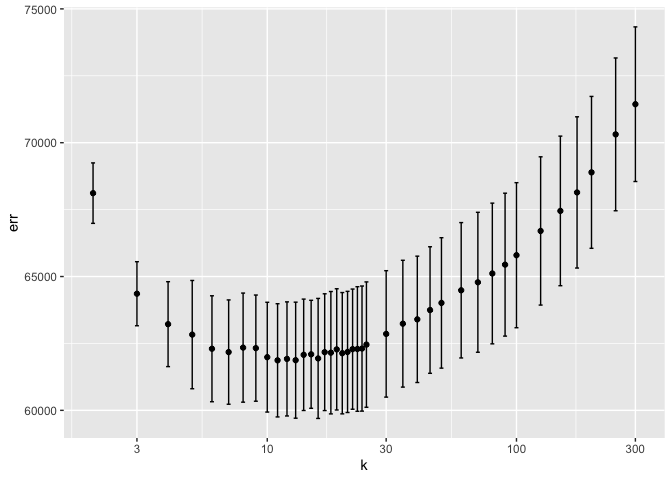
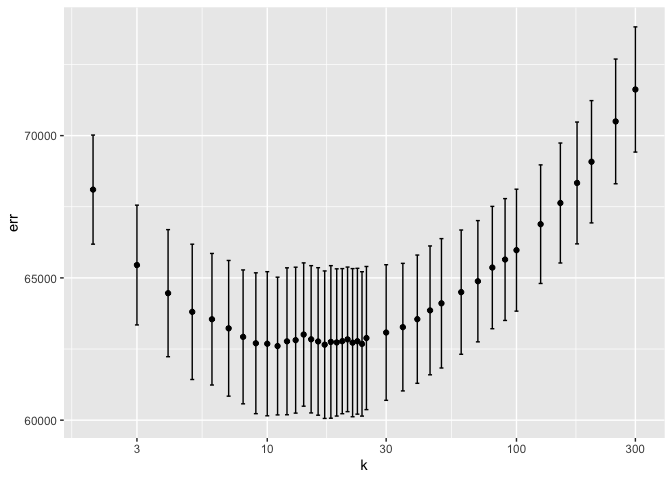
I think its done

diff --git a/exercise 2/exercise_2.md b/exercise 2/exercise_2.md
@@ -19,8 +19,8 @@ them are positively correlated with the house prices.
 
 |              | k   |     rMSE |
 |:-------------|:----|---------:|
-| KNN Model    | 11  | 61869.04 |
-| Linear Model | NA  | 58945.43 |
+| KNN Model    | 11  | 62605.03 |
+| Linear Model | NA  | 59241.46 |
 
 Choose k = 11 as it has the smallest mean RMSE over 5 folds. <br>
 Standard error is smaller for the linear model.
@@ -34,32 +34,32 @@ Linear regression output is below:
     ## 
     ## Residuals:
     ##     Min      1Q  Median      3Q     Max 
-    ## -224916  -34129   -4502   27629  384325 
+    ## -216700  -34839   -5991   28404  452490 
     ## 
     ## Coefficients:
     ##                          Estimate Std. Error t value Pr(>|t|)    
-    ## (Intercept)             2.038e+05  2.361e+04   8.632  < 2e-16 ***
-    ## lotSize                 7.543e+03  2.259e+03   3.339 0.000863 ***
-    ## age                    -6.998e+01  6.068e+01  -1.153 0.249042    
-    ## landValue               8.193e-01  4.993e-02  16.408  < 2e-16 ***
-    ## livingArea              6.611e+01  5.194e+00  12.728  < 2e-16 ***
-    ## bedrooms               -6.603e+03  2.806e+03  -2.353 0.018768 *  
-    ## fireplaces              2.543e+03  3.228e+03   0.788 0.430951    
-    ## bathrooms               4.815e+03  8.042e+03   0.599 0.549451    
-    ## rooms                  -2.018e+03  2.207e+03  -0.914 0.360729    
-    ## heatinghot water/steam -6.484e+03  4.614e+03  -1.405 0.160171    
-    ## heatingelectric         5.923e+03  1.405e+04   0.422 0.673331    
-    ## fuelelectric           -1.493e+04  1.378e+04  -1.084 0.278538    
-    ## fueloil                -5.034e+03  5.128e+03  -0.982 0.326386    
-    ## waterfrontNo           -1.373e+05  1.694e+04  -8.104 1.17e-15 ***
-    ## centralAirNo           -1.509e+04  3.762e+03  -4.010 6.39e-05 ***
-    ## bathrooms:rooms         2.453e+03  1.005e+03   2.440 0.014807 *  
+    ## (Intercept)             1.780e+05  2.328e+04   7.646 3.88e-14 ***
+    ## lotSize                 8.930e+03  2.296e+03   3.890 0.000105 ***
+    ## age                    -9.726e+01  6.522e+01  -1.491 0.136139    
+    ## landValue               8.699e-01  5.151e-02  16.888  < 2e-16 ***
+    ## livingArea              6.362e+01  5.357e+00  11.876  < 2e-16 ***
+    ## bedrooms               -9.921e+03  2.871e+03  -3.456 0.000565 ***
+    ## fireplaces              1.157e+03  3.385e+03   0.342 0.732564    
+    ## bathrooms               1.188e+04  8.786e+03   1.352 0.176643    
+    ## rooms                   2.121e+03  2.361e+03   0.898 0.369317    
+    ## heatinghot water/steam -8.534e+03  4.716e+03  -1.810 0.070558 .  
+    ## heatingelectric        -4.790e+03  1.345e+04  -0.356 0.721742    
+    ## fuelelectric           -8.388e+03  1.315e+04  -0.638 0.523629    
+    ## fueloil                -3.233e+03  5.366e+03  -0.603 0.546934    
+    ## waterfrontNo           -1.241e+05  1.567e+04  -7.918 4.96e-15 ***
+    ## centralAirNo           -8.460e+03  3.826e+03  -2.211 0.027201 *  
+    ## bathrooms:rooms         1.199e+03  1.096e+03   1.095 0.273773    
     ## ---
     ## Signif. codes:  0 '***' 0.001 '**' 0.01 '*' 0.05 '.' 0.1 ' ' 1
     ## 
-    ## Residual standard error: 57020 on 1366 degrees of freedom
-    ## Multiple R-squared:  0.6729, Adjusted R-squared:  0.6693 
-    ## F-statistic: 187.4 on 15 and 1366 DF,  p-value: < 2.2e-16
+    ## Residual standard error: 58780 on 1366 degrees of freedom
+    ## Multiple R-squared:  0.6476, Adjusted R-squared:  0.6437 
+    ## F-statistic: 167.3 on 15 and 1366 DF,  p-value: < 2.2e-16
 
 ## 3) Classification and retrospective sampling
 
@@ -103,23 +103,19 @@ that of baseline 1. The two look similar to each other.
 | model     |       TPR |       FPR | thresh |
 |:----------|----------:|----------:|-------:|
 | baseline1 | 0.0000000 | 0.0000000 |    0.7 |
-| baseline2 | 0.0200825 | 0.0220718 |    0.7 |
-| LPM       | 0.0085282 | 0.0111689 |    0.7 |
+| baseline2 | 0.0459422 | 0.0013780 |    0.7 |
+| LPM       | 0.0228336 | 0.0008220 |    0.7 |
 | baseline1 | 0.0000000 | 0.0000000 |    0.5 |
-| baseline2 | 0.0371389 | 0.0386317 |    0.5 |
-| LPM       | 0.0393398 | 0.0402514 |    0.5 |
-| baseline1 | 0.0005502 | 0.0001451 |    0.2 |
-| baseline2 | 0.0869326 | 0.0840324 |    0.2 |
-| LPM       | 0.0880330 | 0.0850719 |    0.2 |
+| baseline2 | 0.0814305 | 0.0030219 |    0.5 |
+| LPM       | 0.0775791 | 0.0034329 |    0.5 |
+| baseline1 | 0.0002751 | 0.0000000 |    0.2 |
+| baseline2 | 0.1345254 | 0.0111447 |    0.2 |
+| LPM       | 0.1298487 | 0.0111447 |    0.2 |
 
 This table has the TPR and FPR of the models when the threshold is set
 at 0.7, 0.5, and 0.2. Across various threshold values, baseline 1
 displays too little TPRs. We can see that the baseline 2 and LPM has
-higher TPRs. Specifically, LPM has slightly higher TPR when the
-threshold is lower(0.2) compared to baseline 2 with little difference in
-FPR between these two models. When threshold is 0.7, the trade-off of
-TPR and FPR makes it difficult to tell which one is better. We choose
-LPM for further analysis.
+higher TPRs. We choose baseline2 for further analysis.
 
 ### Model validation: step 1
 
@@ -129,26 +125,26 @@ LPM for further analysis.
 
 |        | Predicted | Actual | Difference |
 |:-------|:----------|:-------|:-----------|
-| Fold01 | 19        | 18     | -1         |
-| Fold02 | 24        | 21     | -3         |
-| Fold03 | 21        | 20     | -1         |
-| Fold04 | 23        | 16     | -7         |
-| Fold05 | 20        | 22     | 2          |
-| Fold06 | 21        | 27     | 6          |
-| Fold07 | 24        | 27     | 3          |
-| Fold08 | 21        | 22     | 1          |
-| Fold09 | 21        | 24     | 3          |
-| Fold10 | 22        | 22     | 0          |
-| Fold11 | 18        | 18     | 0          |
-| Fold12 | 22        | 18     | -4         |
-| Fold13 | 17        | 22     | 5          |
-| Fold14 | 19        | 10     | -9         |
-| Fold15 | 16        | 20     | 4          |
-| Fold16 | 20        | 21     | 1          |
-| Fold17 | 18        | 16     | -2         |
-| Fold18 | 21        | 21     | 0          |
-| Fold19 | 22        | 21     | -1         |
-| Fold20 | 21        | 16     | -5         |
+| Fold01 | 21        | 25     | 4          |
+| Fold02 | 23        | 19     | -4         |
+| Fold03 | 17        | 17     | 0          |
+| Fold04 | 18        | 14     | -4         |
+| Fold05 | 24        | 21     | -3         |
+| Fold06 | 19        | 20     | 1          |
+| Fold07 | 22        | 19     | -3         |
+| Fold08 | 22        | 18     | -4         |
+| Fold09 | 23        | 24     | 1          |
+| Fold10 | 18        | 14     | -4         |
+| Fold11 | 22        | 16     | -6         |
+| Fold12 | 19        | 23     | 4          |
+| Fold13 | 24        | 26     | 2          |
+| Fold14 | 20        | 24     | 4          |
+| Fold15 | 21        | 24     | 3          |
+| Fold16 | 20        | 20     | 0          |
+| Fold17 | 23        | 25     | 2          |
+| Fold18 | 19        | 17     | -2         |
+| Fold19 | 17        | 18     | 1          |
+| Fold20 | 18        | 18     | 0          |
 | total  | 410       | 402    | 8          |
 
 The model does the prediction pretty well. It only had 8 predictions
